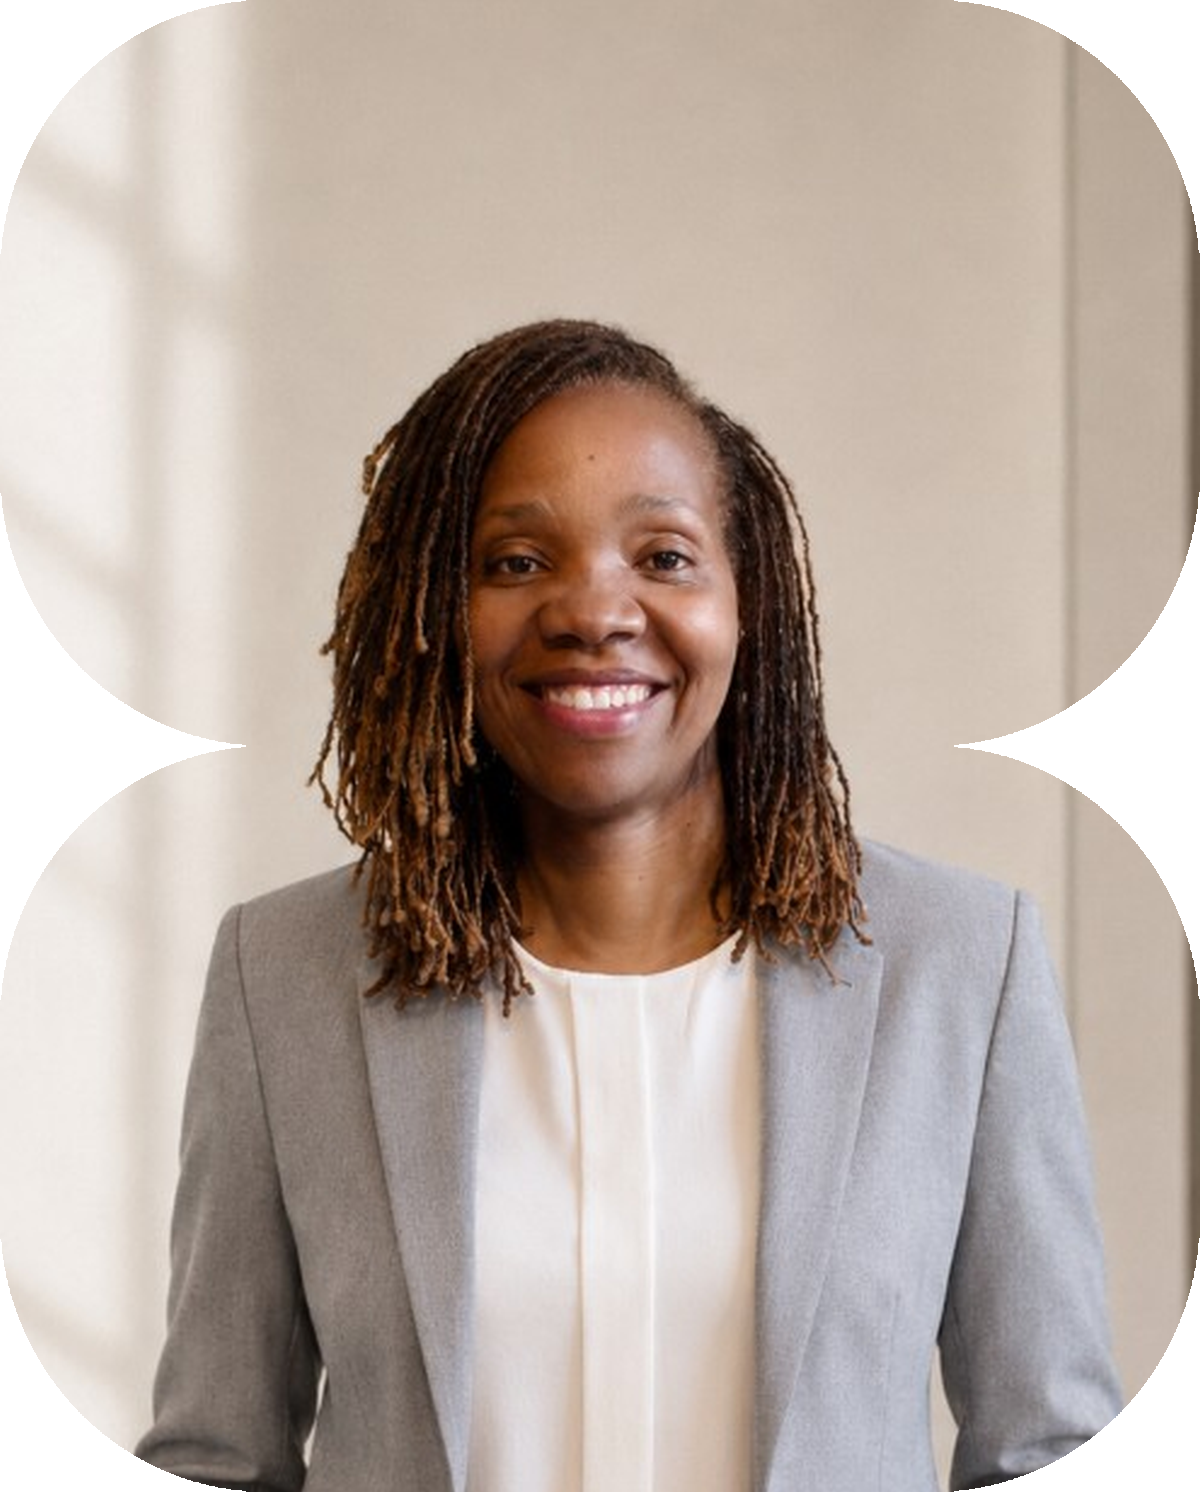
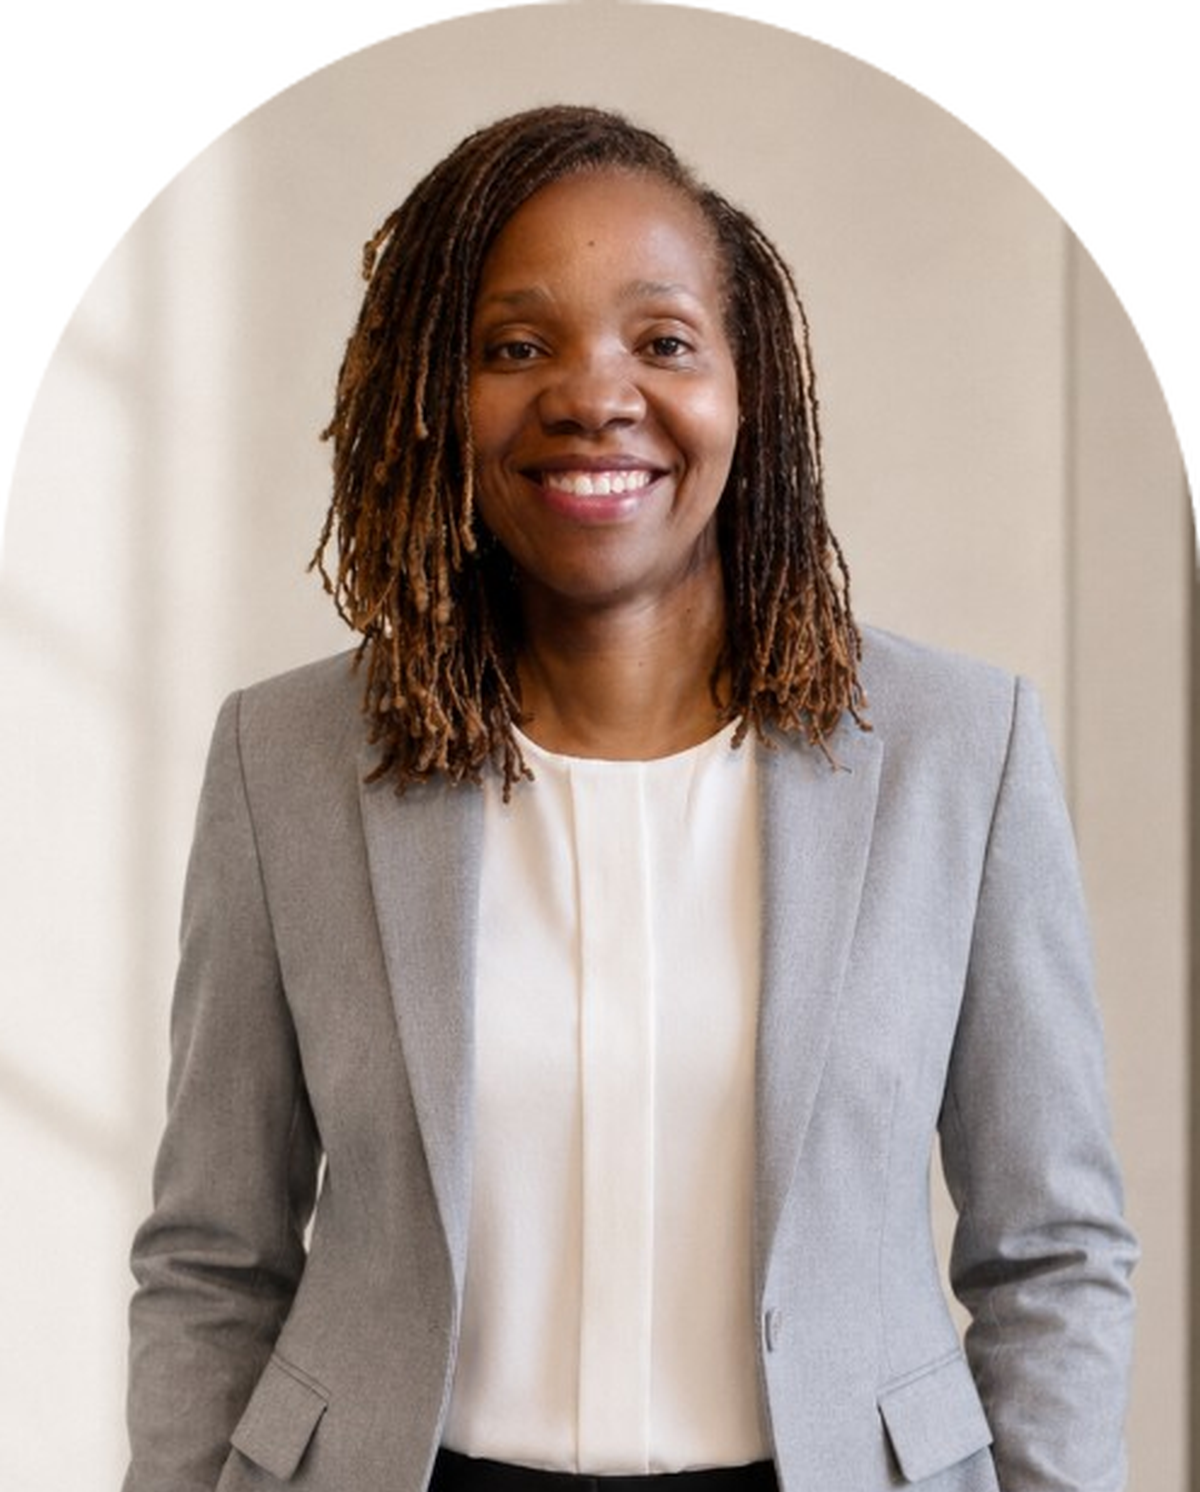
leadership section UI update

diff --git a/client/tourism-landing-staging/css/melange.css b/client/tourism-landing-staging/css/melange.css
@@ -4876,7 +4876,7 @@ br.hero-br-desktop {
 }
 
 .profile-card > img {
-  width: 100%;
+  width: min(82%, 360px);
   height: auto;
   display: block;
   margin: 0 auto;
